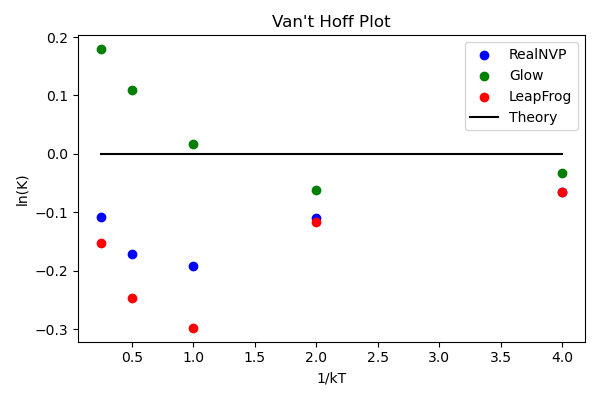
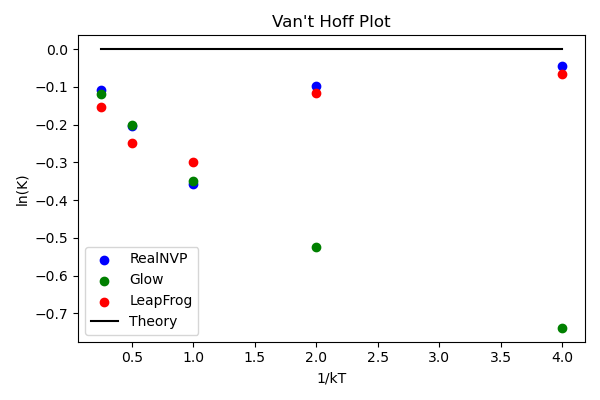
Graphed new glow alternating results

diff --git a/Figures/plot_interactions.py b/Figures/plot_interactions.py
@@ -46,14 +46,15 @@ if __name__ == "__main__":
     SIGMA = 5
     scale = test_count // 2
     folder = 'Figures'
+    subfolder = 'interactions_forward'
     run_type = 'Glow'
     NA = 216
     average_interactions = []
     KTs = [0.25, 0.5, 1, 2, 4]
     for KT in KTs:
-        nn_model = glob.glob(f'{folder}/{run_type}_NA{NA}_KT{KT}*/trained_flow_model.pth')[0]
+        nn_model = glob.glob(f'{folder}/{subfolder}/{run_type}_NA{NA}_KT{KT}*/trained_flow_model.pth')[0]
         print(f"Testing model: {nn_model}")
-        filename = folder + '/' + nn_model.split('/')[1] + '/'
+        filename = folder + '/' + subfolder + '/' + nn_model.split('/')[-2] + '/'
         networkdims = [32,16,16,16]#[8,8,8]
         # NA = int(nn_model.split('/')[1].split('_')[1])
         PDB_PATH = Path(f'examples/GaAs/GaAs{NA}.pdb')
@@ -86,11 +87,11 @@ if __name__ == "__main__":
         if run_type == 'RealNVP':
             r_buf = torch.empty((1, NA, DIM))
             r_coord_buf = torch.empty((1, NA, DIM))
-            t_buf = torch.zeros((1,), dtype=torch.float32)
+            t_buf = torch.tensor(0.0)#torch.zeros((1,), dtype=torch.float32)
         elif run_type == 'Glow':
             r_buf = torch.empty((1, NA, DIM))
             p_buf = torch.empty((1, NA, DIM))
-            t_buf = torch.zeros((1,), dtype=torch.float32)
+            t_buf = torch.tensor(0.0)#torch.zeros((1,), dtype=torch.float32)
 
         with torch.no_grad():
             for i in range(test_count):
